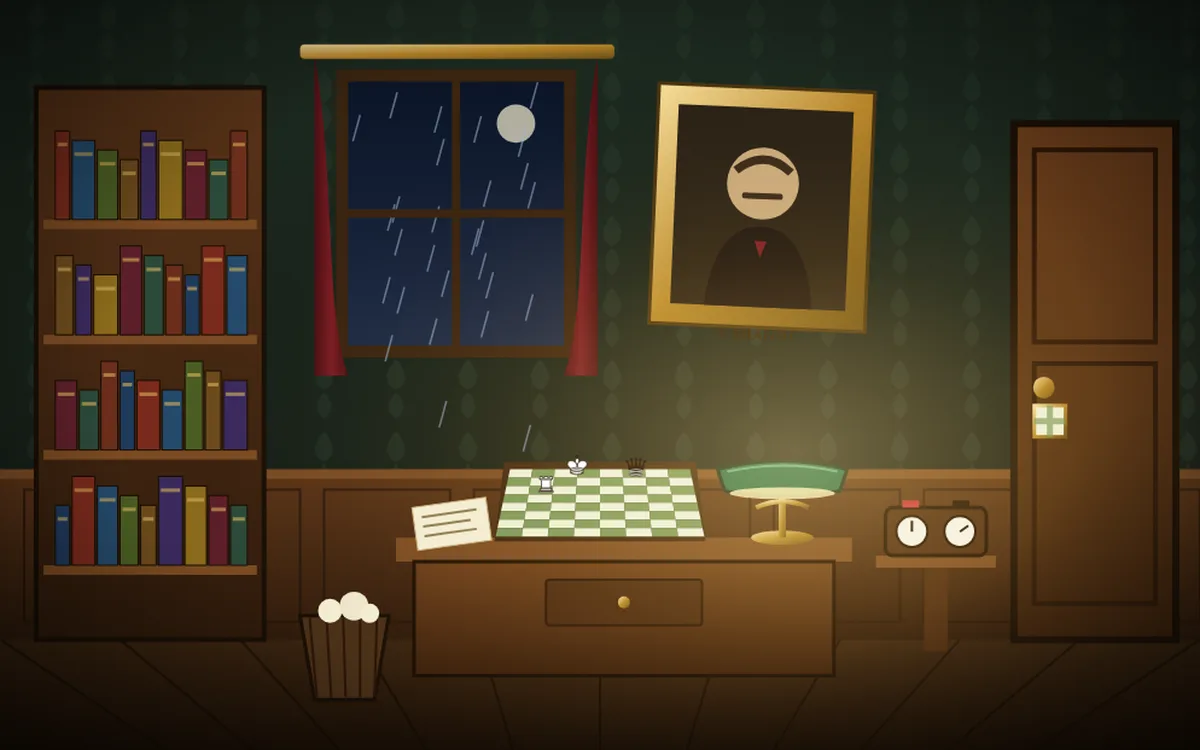
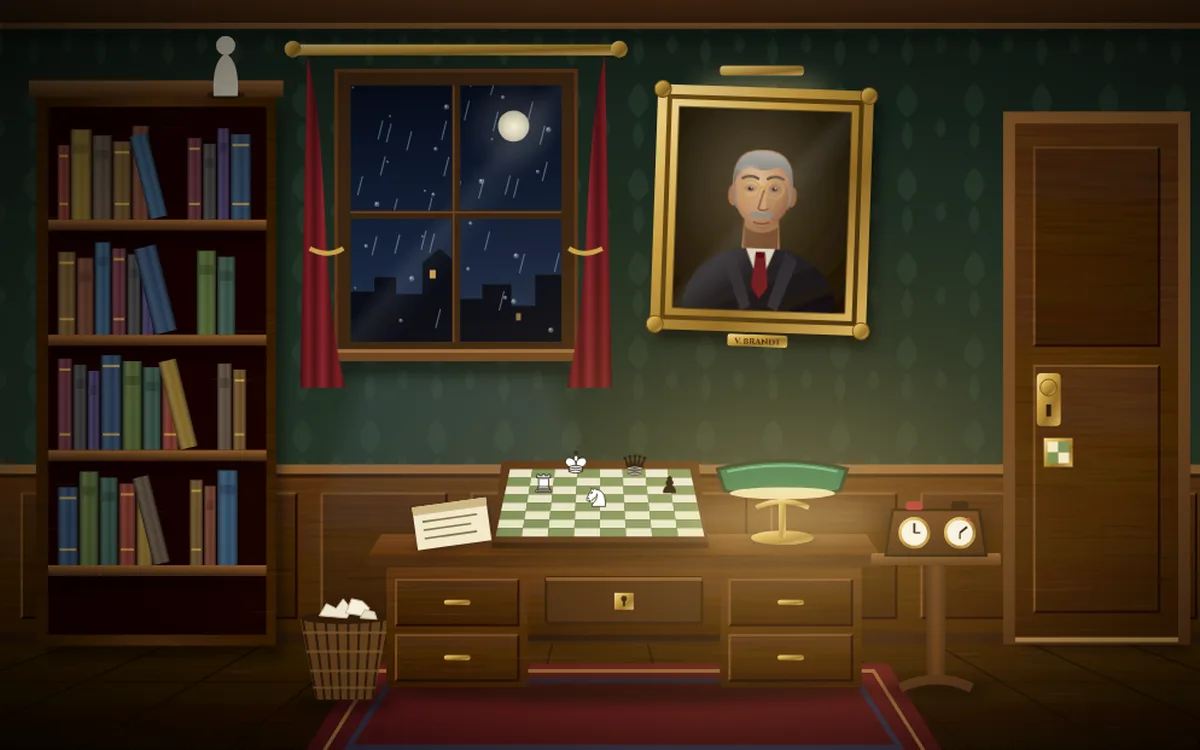
Zimmer des Großmeisters: realistischere Szene, Porträt, Regen nur am Fenster
Claude-Session: https://claude.ai/code/session_01Wbe3xKVTDkz4b75dQwucE3

diff --git a/site/schach/escape-room-zimmer/index.html b/site/schach/escape-room-zimmer/index.html
@@ -259,86 +259,180 @@ function narrate(lines,done){
 /* ---------- Szene ---------- */
 function sceneSVG(st){
   const f=st?st.flags:{};
-  const books=["#7a2a1c","#244a6b","#4a5d23","#6b4a1c","#3a2a5c","#8a6a1c","#5c1f2a","#2c4a3a","#6b2e1c","#1f3a5c"];
-  let shelf=""; for(let r=0;r<4;r++){ let x=46; for(let k=0;k<11;k++){ const w=12+((k*7+r*3)%9), h=74-((k*5+r)%4)*8; shelf+=`<rect x="${x}" y="${190+r*96-h}" width="${w}" height="${h}" fill="${books[(k+r*3)%books.length]}" stroke="#1a0f05" stroke-width="1"/><rect x="${x+2}" y="${190+r*96-h+10}" width="${w-4}" height="3" fill="#d9b25a" opacity=".6"/>`; x+=w+2; if(x>200) break; } }
-  let rain=""; for(let k=0;k<28;k++){ const x=300+((k*37)%150), y=((k*53)%170)+90; rain+=`<line x1="${x}" y1="${y}" x2="${x-6}" y2="${y+22}" stroke="#9fb7d6" stroke-width="1.5" opacity=".55"><animate attributeName="y1" values="${y-60};${y+120}" dur="${.7+(k%5)*.12}s" repeatCount="indefinite"/><animate attributeName="y2" values="${y-38};${y+142}" dur="${.7+(k%5)*.12}s" repeatCount="indefinite"/></line>`; }
-  let board=""; // Brett in leichter Perspektive
-  for(let r=0;r<8;r++) for(let c=0;c<8;c++){ const y0=398+r*7, y1=y0+7, w0=150+r*3, w1=150+(r+1)*3, xl0=500-w0/2, xl1=500-w1/2;
-    const ax=xl0+c*w0/8, bx=xl0+(c+1)*w0/8, cx=xl1+(c+1)*w1/8, dx=xl1+c*w1/8; board+=`<polygon points="${ax},${y0} ${bx},${y0} ${cx},${y1} ${dx},${y1}" fill="${(r+c)%2?"#769656":"#eeeed2"}"/>`; }
+  /* Bücher: unterschiedliche Höhen, Breiten, Farben, ein schräg stehendes Buch pro Brett */
+  const BC=["#6e2418","#1f3f5c","#3f5220","#5e3f17","#33264f","#7a5c18","#4f1b25","#264236","#5c2a18","#1b3350","#4a3a2a","#2f2f2f"];
+  let shelf=""; for(let r=0;r<4;r++){ let x=48; const base=190+r*96; let k=0;
+    while(x<196){ const w=10+((k*7+r*5)%8), h=62+((k*13+r*7)%18), c=BC[(k*5+r*3)%BC.length];
+      if(k===5+r%3){ shelf+=`<g transform="rotate(-14 ${x} ${base})"><rect x="${x}" y="${base-h+2}" width="${w+2}" height="${h-2}" fill="${c}"/><rect x="${x}" y="${base-h+2}" width="${w+2}" height="${h-2}" fill="url(#spine)"/></g>`; x+=w+18; k++; continue; }
+      shelf+=`<rect x="${x}" y="${base-h}" width="${w}" height="${h}" fill="${c}"/><rect x="${x}" y="${base-h}" width="${w}" height="${h}" fill="url(#spine)"/>`+
+        (k%3===0?`<rect x="${x+1.5}" y="${base-h+8}" width="${w-3}" height="2" fill="#c9a24a" opacity=".75"/><rect x="${x+1.5}" y="${base-14}" width="${w-3}" height="2" fill="#c9a24a" opacity=".75"/>`:`<rect x="${x+2}" y="${base-h+12}" width="${w-4}" height="8" fill="#000" opacity=".18"/>`);
+      x+=w+1; k++; }
+    shelf+=`<rect x="40" y="${base}" width="182" height="9" fill="url(#shelfb)"/><rect x="40" y="${base+9}" width="182" height="10" fill="#000" opacity=".35" filter="url(#soft)"/>`; }
+  /* Regen nur hinter der Scheibe */
+  let rain=""; for(let k=0;k<40;k++){ const x=292+((k*41)%176), y=((k*59)%200)+60, d=(.55+(k%6)*.09).toFixed(2);
+    rain+=`<line x1="${x}" y1="${y}" x2="${x-4}" y2="${y+16}" stroke="#a9c1e0" stroke-width="1.1" opacity=".45"><animate attributeName="y1" values="${y-140};${y+120}" dur="${d}s" repeatCount="indefinite"/><animate attributeName="y2" values="${y-124};${y+136}" dur="${d}s" repeatCount="indefinite"/></line>`; }
+  let drops=""; for(let k=0;k<26;k++){ const x=294+((k*67)%172), y=80+((k*89)%205), r=1+(k%3)*.6; drops+=`<circle cx="${x}" cy="${y}" r="${r}" fill="#cfe0f5" opacity=".35"/><circle cx="${x-.4}" cy="${y-.5}" r="${r*.35}" fill="#fff" opacity=".6"/>`; }
+  /* Brett in Perspektive */
+  let board=""; for(let r=0;r<8;r++) for(let c=0;c<8;c++){ const y0=398+r*7, y1=y0+7, w0=150+r*3, w1=150+(r+1)*3, xl0=500-w0/2, xl1=500-w1/2;
+    const ax=xl0+c*w0/8, bx=xl0+(c+1)*w0/8, cx=xl1+(c+1)*w1/8, dx=xl1+c*w1/8; board+=`<polygon points="${ax},${y0} ${bx},${y0} ${cx},${y1} ${dx},${y1}" fill="${(r+c)%2?"#6f8c52":"#e6e2c6"}"/>`; }
+  const panel=(x,y,w,h)=>`<rect x="${x}" y="${y}" width="${w}" height="${h}" fill="url(#panelf)"/><path d="M${x} ${y+h} V${y} H${x+w}" stroke="#8a5a2c" stroke-width="2" fill="none" opacity=".7"/><path d="M${x+w} ${y} V${y+h} H${x}" stroke="#140a03" stroke-width="2" fill="none" opacity=".8"/>`;
   return `
   <defs>
-    <linearGradient id="wall" x1="0" y1="0" x2="0" y2="1"><stop offset="0" stop-color="#1d2a20"/><stop offset="1" stop-color="#121a14"/></linearGradient>
-    <pattern id="damask" width="60" height="60" patternUnits="userSpaceOnUse"><path d="M30 6 C40 18 40 26 30 32 C20 26 20 18 30 6 Z M30 34 C38 42 38 50 30 56 C22 50 22 42 30 34Z" fill="#26362a" opacity=".55"/></pattern>
-    <linearGradient id="wood" x1="0" y1="0" x2="0" y2="1"><stop offset="0" stop-color="#5a3418"/><stop offset="1" stop-color="#2e1a0b"/></linearGradient>
-    <linearGradient id="floor" x1="0" y1="0" x2="0" y2="1"><stop offset="0" stop-color="#3a2410"/><stop offset="1" stop-color="#1a0f06"/></linearGradient>
-    <linearGradient id="desk" x1="0" y1="0" x2="0" y2="1"><stop offset="0" stop-color="#6b3d1a"/><stop offset="1" stop-color="#3a200c"/></linearGradient>
-    <linearGradient id="goldf" x1="0" y1="0" x2="1" y2="1"><stop offset="0" stop-color="#f6dd9a"/><stop offset=".5" stop-color="#b8862a"/><stop offset="1" stop-color="#6a4d14"/></linearGradient>
-    <linearGradient id="night" x1="0" y1="0" x2="0" y2="1"><stop offset="0" stop-color="#0b1426"/><stop offset="1" stop-color="#1c2a44"/></linearGradient>
-    <radialGradient id="lamp" cx="0.66" cy="0.6" r="0.5"><stop offset="0" stop-color="#ffd27a" stop-opacity=".42"/><stop offset=".5" stop-color="#ffb347" stop-opacity=".12"/><stop offset="1" stop-color="#000" stop-opacity="0"/></radialGradient>
-    <radialGradient id="vig" cx=".5" cy=".5" r=".75"><stop offset=".55" stop-color="#000" stop-opacity="0"/><stop offset="1" stop-color="#000" stop-opacity=".75"/></radialGradient>
-    <linearGradient id="velvet" x1="0" y1="0" x2="1" y2="0"><stop offset="0" stop-color="#4a0f14"/><stop offset=".5" stop-color="#7a1c22"/><stop offset="1" stop-color="#4a0f14"/></linearGradient>
-    <linearGradient id="steel" x1="0" y1="0" x2="1" y2="1"><stop offset="0" stop-color="#8a929e"/><stop offset="1" stop-color="#2b3038"/></linearGradient>
+    <filter id="grain" x="0" y="0" width="100%" height="100%"><feTurbulence type="fractalNoise" baseFrequency="0.012 0.32" numOctaves="2" seed="4" result="n"/><feColorMatrix in="n" result="a" values="0 0 0 0 0  0 0 0 0 0  0 0 0 0 0  0 0 0 .55 -.12"/><feComposite in="a" in2="SourceGraphic" operator="in" result="b"/><feMerge><feMergeNode in="SourceGraphic"/><feMergeNode in="b"/></feMerge></filter>
+    <filter id="canvas" x="0" y="0" width="100%" height="100%"><feTurbulence type="fractalNoise" baseFrequency=".9" numOctaves="1" seed="7" result="n"/><feColorMatrix in="n" result="a" values="0 0 0 0 0  0 0 0 0 0  0 0 0 0 0  0 0 0 .22 0"/><feComposite in="a" in2="SourceGraphic" operator="in" result="b"/><feMerge><feMergeNode in="SourceGraphic"/><feMergeNode in="b"/></feMerge></filter>
+    <filter id="soft" x="-20%" y="-50%" width="140%" height="200%"><feGaussianBlur stdDeviation="5"/></filter>
+    <filter id="glow" x="-50%" y="-50%" width="200%" height="200%"><feGaussianBlur stdDeviation="9"/></filter>
+    <clipPath id="winclip"><rect x="292" y="78" width="176" height="214"/></clipPath>
+    <linearGradient id="wall" x1="0" y1="0" x2="0" y2="1"><stop offset="0" stop-color="#16231a"/><stop offset=".6" stop-color="#1f3024"/><stop offset="1" stop-color="#16221a"/></linearGradient>
+    <pattern id="damask" width="56" height="70" patternUnits="userSpaceOnUse"><path d="M28 6 C38 16 40 26 28 35 C16 26 18 16 28 6 Z M28 38 C34 46 34 54 28 62 C22 54 22 46 28 38Z M0 35 C6 41 6 47 0 52 M56 35 C50 41 50 47 56 52" fill="#2b3f2f" opacity=".5"/></pattern>
+    <linearGradient id="panelf" x1="0" y1="0" x2="0" y2="1"><stop offset="0" stop-color="#4f2d14"/><stop offset="1" stop-color="#341c0b"/></linearGradient>
+    <linearGradient id="wood" x1="0" y1="0" x2="0" y2="1"><stop offset="0" stop-color="#5c3517"/><stop offset="1" stop-color="#3a200c"/></linearGradient>
+    <linearGradient id="woodv" x1="0" y1="0" x2="1" y2="0"><stop offset="0" stop-color="#3a200c"/><stop offset=".5" stop-color="#5c3517"/><stop offset="1" stop-color="#3a200c"/></linearGradient>
+    <linearGradient id="shelfb" x1="0" y1="0" x2="0" y2="1"><stop offset="0" stop-color="#8a5a2c"/><stop offset="1" stop-color="#4a2a12"/></linearGradient>
+    <linearGradient id="spine" x1="0" y1="0" x2="1" y2="0"><stop offset="0" stop-color="#000" stop-opacity=".45"/><stop offset=".35" stop-color="#fff" stop-opacity=".12"/><stop offset=".6" stop-color="#fff" stop-opacity=".04"/><stop offset="1" stop-color="#000" stop-opacity=".5"/></linearGradient>
+    <linearGradient id="floor" x1="0" y1="0" x2="0" y2="1"><stop offset="0" stop-color="#3b2410"/><stop offset="1" stop-color="#1c1006"/></linearGradient>
+    <linearGradient id="desktop" x1="0" y1="0" x2="0" y2="1"><stop offset="0" stop-color="#7a4620"/><stop offset="1" stop-color="#5a3216"/></linearGradient>
+    <linearGradient id="desk" x1="0" y1="0" x2="0" y2="1"><stop offset="0" stop-color="#5e3517"/><stop offset="1" stop-color="#341c0a"/></linearGradient>
+    <linearGradient id="goldf" x1="0" y1="0" x2="1" y2="1"><stop offset="0" stop-color="#f3d991"/><stop offset=".35" stop-color="#c79b3e"/><stop offset=".65" stop-color="#8c6522"/><stop offset="1" stop-color="#d8b05a"/></linearGradient>
+    <linearGradient id="goldd" x1="0" y1="0" x2="1" y2="1"><stop offset="0" stop-color="#6a4a14"/><stop offset="1" stop-color="#3a2808"/></linearGradient>
+    <linearGradient id="night" x1="0" y1="0" x2="0" y2="1"><stop offset="0" stop-color="#070d1c"/><stop offset=".7" stop-color="#16243d"/><stop offset="1" stop-color="#22324e"/></linearGradient>
+    <linearGradient id="glass" x1="0" y1="0" x2="1" y2="1"><stop offset="0" stop-color="#fff" stop-opacity="0"/><stop offset=".45" stop-color="#fff" stop-opacity="0"/><stop offset=".5" stop-color="#fff" stop-opacity=".07"/><stop offset=".6" stop-color="#fff" stop-opacity="0"/></linearGradient>
+    <radialGradient id="moon" cx=".5" cy=".5" r=".5"><stop offset="0" stop-color="#f4efd8"/><stop offset=".6" stop-color="#d9d3b8"/><stop offset="1" stop-color="#b9b39a"/></radialGradient>
+    <radialGradient id="lamp" cx="0.65" cy="0.68" r="0.55"><stop offset="0" stop-color="#ffcf7a" stop-opacity=".38"/><stop offset=".45" stop-color="#ffaa45" stop-opacity=".1"/><stop offset="1" stop-color="#000" stop-opacity="0"/></radialGradient>
+    <radialGradient id="vig" cx=".55" cy=".55" r=".78"><stop offset=".5" stop-color="#000" stop-opacity="0"/><stop offset="1" stop-color="#000" stop-opacity=".78"/></radialGradient>
+    <linearGradient id="velvet" x1="0" y1="0" x2="1" y2="0"><stop offset="0" stop-color="#3d0b10"/><stop offset=".18" stop-color="#7a1c22"/><stop offset=".32" stop-color="#4a0f14"/><stop offset=".5" stop-color="#86222a"/><stop offset=".68" stop-color="#4a0f14"/><stop offset=".85" stop-color="#7a1c22"/><stop offset="1" stop-color="#3d0b10"/></linearGradient>
+    <linearGradient id="steel" x1="0" y1="0" x2="1" y2="1"><stop offset="0" stop-color="#8a929e"/><stop offset=".5" stop-color="#4b525c"/><stop offset="1" stop-color="#22262c"/></linearGradient>
+    <radialGradient id="cbg" cx=".45" cy=".35" r=".8"><stop offset="0" stop-color="#5e5038"/><stop offset=".55" stop-color="#2e2618"/><stop offset="1" stop-color="#14100a"/></radialGradient>
+    <radialGradient id="skin" cx=".42" cy=".38" r=".7"><stop offset="0" stop-color="#e9c39a"/><stop offset=".6" stop-color="#c8936a"/><stop offset="1" stop-color="#8a5a3a"/></radialGradient>
+    <linearGradient id="suit" x1="0" y1="0" x2="1" y2="1"><stop offset="0" stop-color="#3a3a42"/><stop offset=".5" stop-color="#1c1c22"/><stop offset="1" stop-color="#0c0c10"/></linearGradient>
+    <linearGradient id="hair" x1="0" y1="0" x2="0" y2="1"><stop offset="0" stop-color="#b8b6ae"/><stop offset="1" stop-color="#6e6c66"/></linearGradient>
+    <radialGradient id="plight" cx=".5" cy="0" r=".9"><stop offset="0" stop-color="#ffe2a0" stop-opacity=".35"/><stop offset="1" stop-color="#ffe2a0" stop-opacity="0"/></radialGradient>
+    <linearGradient id="rug" x1="0" y1="0" x2="0" y2="1"><stop offset="0" stop-color="#5a1518"/><stop offset="1" stop-color="#3a0c0e"/></linearGradient>
+    <linearGradient id="spill" x1="0" y1="0" x2="0" y2="1"><stop offset="0" stop-color="#8fb0de" stop-opacity=".12"/><stop offset="1" stop-color="#8fb0de" stop-opacity="0"/></linearGradient>
   </defs>
-  <rect width="1000" height="640" fill="url(#wall)"/><rect width="1000" height="420" fill="url(#damask)"/>
-  <rect y="400" width="1000" height="140" fill="url(#wood)"/><g stroke="#24140a" stroke-width="2">${[0,1,2,3,4,5,6,7].map(k=>`<rect x="${20+k*125}" y="415" width="105" height="110" fill="none" opacity=".7"/>`).join("")}</g>
-  <rect y="398" width="1000" height="8" fill="#7a4a22"/>
-  <rect y="540" width="1000" height="100" fill="url(#floor)"/><g stroke="#120a04" stroke-width="2" opacity=".6">${[0,1,2,3,4,5,6,7,8,9,10].map(k=>`<line x1="${k*100}" y1="540" x2="${k*100-((k-5)*30)}" y2="640"/>`).join("")}</g>
+  <!-- Wand -->
+  <rect width="1000" height="640" fill="url(#wall)"/><rect width="1000" height="400" fill="url(#damask)"/>
+  <rect y="0" width="1000" height="26" fill="url(#wood)"/><rect y="26" width="1000" height="5" fill="#8a5a2c"/><rect y="31" width="1000" height="10" fill="#000" opacity=".3" filter="url(#soft)"/>
+  <!-- Wandvertäfelung -->
+  <g filter="url(#grain)"><rect y="398" width="1000" height="146" fill="url(#wood)"/>${[0,1,2,3,4,5,6,7].map(k=>panel(18+k*125,418,104,104)).join("")}</g>
+  <rect y="394" width="1000" height="8" fill="#8a5a2c"/><rect y="402" width="1000" height="3" fill="#2a1608"/>
+  <rect y="534" width="1000" height="10" fill="#2a1608"/>
+  <!-- Boden -->
+  <g filter="url(#grain)"><rect y="544" width="1000" height="96" fill="url(#floor)"/></g>
+  <g stroke="#0e0703" stroke-width="1.5" opacity=".7">${Array.from({length:14},(_,k)=>`<line x1="${k*80-20}" y1="544" x2="${(k*80-20-500)*1.6+500}" y2="640"/>`).join("")}<line x1="0" y1="575" x2="1000" y2="575" opacity=".5"/><line x1="0" y1="610" x2="1000" y2="610" opacity=".5"/></g>
+  <polygon points="300,560 740,560 790,640 250,640" fill="url(#rug)"/><polygon points="312,566 728,566 772,636 268,636" fill="none" stroke="#c9a24a" stroke-width="3" opacity=".55"/><polygon points="326,574 714,574 750,630 290,630" fill="none" stroke="#1f3a5c" stroke-width="5" opacity=".6"/>
   <!-- Fenster -->
-  <rect x="285" y="70" width="190" height="230" fill="url(#night)" stroke="#3a2410" stroke-width="10"/>
-  <circle cx="430" cy="110" r="16" fill="#e8e2c8" opacity=".75"/><g>${rain}</g>
-  <path d="M380 70 V300 M285 185 H475" stroke="#3a2410" stroke-width="7"/>
-  <path d="M262 52 C280 160 270 260 290 320 L262 320 Z" fill="url(#velvet)"/><path d="M498 52 C480 160 490 260 470 320 L498 320 Z" fill="url(#velvet)"/><rect x="250" y="44" width="262" height="12" rx="4" fill="url(#goldf)"/>
+  <rect x="262" y="306" width="236" height="14" fill="#000" opacity=".35" filter="url(#soft)"/>
+  <g clip-path="url(#winclip)">
+    <rect x="292" y="78" width="176" height="214" fill="url(#night)"/>
+    <circle cx="428" cy="112" r="30" fill="#e8e2c8" opacity=".12" filter="url(#glow)"/><circle cx="428" cy="112" r="13" fill="url(#moon)"/>
+    <path d="M292 292 V250 H312 V238 H330 V252 H352 V226 L366 214 L380 226 V256 H402 V244 H426 V262 H446 V236 H468 V292 Z" fill="#060a14"/>
+    <rect x="358" y="232" width="5" height="7" fill="#e8b85a" opacity=".85"/><rect x="430" y="268" width="4" height="6" fill="#e8b85a" opacity=".6"/>
+    ${rain}${drops}
+    <rect x="292" y="78" width="176" height="214" fill="url(#glass)"/>
+  </g>
+  <rect x="286" y="72" width="188" height="226" fill="none" stroke="#3a2410" stroke-width="12"/>
+  <rect x="280" y="66" width="200" height="238" fill="none" stroke="#5c3517" stroke-width="3"/>
+  <path d="M380 78 V292 M292 186 H468" stroke="#3a2410" stroke-width="7"/><path d="M378 78 V292 M292 184 H468" stroke="#6a4220" stroke-width="1.5"/>
+  <rect x="270" y="298" width="220" height="10" fill="#6a4220"/><rect x="270" y="298" width="220" height="3" fill="#9a6a38"/>
+  <polygon points="300,320 460,320 520,544 240,544" fill="url(#spill)" filter="url(#glow)"/>
+  <path d="M256 52 C276 140 266 250 288 330 L250 330 Z" fill="url(#velvet)"/><path d="M504 52 C484 140 494 250 472 330 L510 330 Z" fill="url(#velvet)"/>
+  <path d="M258 214 Q274 222 286 214" stroke="#c9a24a" stroke-width="4" fill="none"/><path d="M474 214 Q486 222 502 214" stroke="#c9a24a" stroke-width="4" fill="none"/>
+  <rect x="244" y="44" width="272" height="9" rx="4" fill="url(#goldf)"/><circle cx="244" cy="48" r="7" fill="url(#goldf)"/><circle cx="516" cy="48" r="7" fill="url(#goldf)"/>
   <!-- Regal -->
-  <rect x="30" y="80" width="190" height="460" fill="url(#wood)" stroke="#1a0f05" stroke-width="4"/>
-  ${[0,1,2,3].map(r=>`<rect x="36" y="${190+r*96}" width="178" height="8" fill="#7a4a22"/>`).join("")}${shelf}
+  <rect x="34" y="92" width="196" height="458" fill="#000" opacity=".45" filter="url(#soft)" transform="translate(6 6)"/>
+  <g filter="url(#grain)"><rect x="30" y="80" width="200" height="465" fill="url(#woodv)"/><rect x="40" y="96" width="182" height="440" fill="#1e1006"/></g>
+  <rect x="24" y="74" width="212" height="14" fill="url(#shelfb)"/>
+  ${shelf}
+  <g transform="translate(170 87)"><ellipse cx="18" cy="-1" rx="16" ry="4" fill="#000" opacity=".4"/><path d="M8 0 Q6 -28 18 -36 Q30 -28 28 0 Z" fill="#cfc8b4"/><circle cx="18" cy="-42" r="8" fill="#d9d2be"/></g>
   <!-- Gemälde oder Tresor -->
-  ${f.painting?`<rect x="560" y="95" width="150" height="170" fill="#151a1f" stroke="#0a0c0f" stroke-width="4"/>
-     <rect x="572" y="107" width="126" height="146" rx="6" fill="url(#steel)" stroke="#1f2329" stroke-width="3"/>
-     <circle cx="635" cy="175" r="30" fill="#2b3038" stroke="#9aa3ae" stroke-width="4"/><circle cx="635" cy="175" r="7" fill="#9aa3ae"/>
-     ${f.safe?`<rect x="572" y="107" width="126" height="146" rx="6" fill="#0a0c0f" opacity=".85"/><text x="635" y="185" text-anchor="middle" fill="#d9b25a" font-family="Cinzel" font-size="16">offen</text>`:""}
-     <rect x="520" y="300" width="70" height="88" fill="#3a2410" opacity=".0"/>`
-   :`<rect x="545" y="80" width="180" height="200" fill="url(#goldf)" stroke="#4a3410" stroke-width="3" transform="rotate(2.5 635 180)"/>
-     <g transform="rotate(2.5 635 180)"><rect x="562" y="97" width="146" height="166" fill="#2a2216"/>
-     <circle cx="635" cy="160" r="30" fill="#c9a87a"/><path d="M590 263 C595 210 615 196 635 196 C655 196 675 210 680 263 Z" fill="#1a1410"/>
-     <path d="M612 150 Q635 130 658 150" stroke="#3a2a1a" stroke-width="7" fill="none"/><rect x="618" y="168" width="34" height="5" rx="2" fill="#3a2a1a"/>
-     <path d="M630 208 L635 222 L640 208 Z" fill="#7a1c22"/><text x="635" y="290" text-anchor="middle" font-family="Cinzel" font-size="12" fill="#2a1c05">V. BRANDT</text></g>`}
+  <rect x="600" y="62" width="70" height="8" rx="3" fill="url(#goldf)"/><path d="M585 70 L685 70 L740 300 L530 300 Z" fill="url(#plight)" filter="url(#glow)"/>
+  ${f.painting?`<rect x="548" y="84" width="176" height="200" fill="#1a2219"/><rect x="548" y="84" width="176" height="200" fill="none" stroke="#2b3f2f" stroke-width="2" stroke-dasharray="4 3"/>
+     <rect x="566" y="104" width="138" height="160" rx="6" fill="#000" opacity=".5" filter="url(#soft)"/>
+     <rect x="566" y="100" width="138" height="160" rx="6" fill="url(#steel)" stroke="#16191d" stroke-width="3"/><rect x="574" y="108" width="122" height="144" rx="4" fill="none" stroke="#9aa3ae" stroke-width="1" opacity=".5"/>
+     <circle cx="635" cy="180" r="32" fill="#2b3038" stroke="#aab2bc" stroke-width="4"/>${Array.from({length:12},(_,i)=>`<line x1="${635+26*Math.cos(i*Math.PI/6)}" y1="${180+26*Math.sin(i*Math.PI/6)}" x2="${635+31*Math.cos(i*Math.PI/6)}" y2="${180+31*Math.sin(i*Math.PI/6)}" stroke="#aab2bc" stroke-width="2"/>`).join("")}<circle cx="635" cy="180" r="8" fill="#aab2bc"/><rect x="676" y="170" width="16" height="22" rx="3" fill="#aab2bc"/>
+     ${f.safe?`<rect x="566" y="100" width="138" height="160" rx="6" fill="#07080a" opacity=".9"/><text x="635" y="186" text-anchor="middle" fill="#d9b25a" font-family="Cinzel" font-size="15">offen</text>`:""}`
+   :`<g transform="rotate(2 635 182)">
+     <rect x="551" y="90" width="180" height="204" fill="#000" opacity=".55" filter="url(#soft)"/>
+     <rect x="545" y="80" width="180" height="204" fill="url(#goldf)"/><rect x="553" y="88" width="164" height="188" fill="url(#goldd)"/><rect x="557" y="92" width="156" height="180" fill="url(#goldf)"/>
+     ${[[549,84],[721,84],[549,280],[721,280]].map(([x,y])=>`<circle cx="${x}" cy="${y}" r="7" fill="url(#goldf)" stroke="#6a4a14" stroke-width="1"/>`).join("")}
+     <g filter="url(#canvas)"><rect x="563" y="98" width="144" height="168" fill="url(#cbg)"/>
+      <path d="M570 266 C573 232 598 214 635 211 C672 214 697 232 700 266 Z" fill="url(#suit)"/>
+      <path d="M614 216 L628 262 L620 266 L604 224 Z M656 216 L642 262 L650 266 L666 224 Z" fill="#2c2c34"/>
+      <path d="M622 212 L635 244 L648 212 Z" fill="#e6dcc4"/><path d="M631 217 L639 217 L642 246 L635 256 L628 246 Z" fill="#6e1a20"/><path d="M631 217 L639 217 L637 222 L633 222 Z" fill="#4e1016"/>
+      <path d="M621 186 L649 186 L651 214 L619 214 Z" fill="#a8764e"/><path d="M621 196 Q635 206 649 196 V214 H621 Z" fill="#7a5034"/>
+      <ellipse cx="611" cy="170" rx="4.5" ry="9" fill="#b07a52"/><ellipse cx="659" cy="170" rx="4.5" ry="9" fill="#a06a44"/>
+      <path d="M610 160 C610 137 621 132 635 132 C649 132 660 137 660 160 C660 179 652 193 635 199 C618 193 610 179 610 160 Z" fill="url(#skin)"/>
+      <ellipse cx="648" cy="175" rx="10" ry="18" fill="#6a3e24" opacity=".22"/>
+      <path d="M611 163 C608 140 620 133 635 133 C651 133 662 141 659 163 C657 151 652 147 646 146 C640 150 630 150 624 146 C617 148 613 153 611 163 Z" fill="url(#hair)"/>
+      <path d="M611 163 C610 172 612 178 614 182 L612 160 Z M659 163 C660 172 658 178 656 182 L658 160 Z" fill="#8d8b84"/>
+      <path d="M618 156 Q625 152 631 156" stroke="#5a554c" stroke-width="2.2" fill="none" stroke-linecap="round"/><path d="M639 156 Q645 152 652 156" stroke="#5a554c" stroke-width="2.2" fill="none" stroke-linecap="round"/>
+      <ellipse cx="625" cy="164" rx="6" ry="3.5" fill="#8a5a3a" opacity=".35"/><ellipse cx="645" cy="164" rx="6" ry="3.5" fill="#8a5a3a" opacity=".35"/>
+      <ellipse cx="625" cy="164.5" rx="2.4" ry="1.8" fill="#2a1c10"/><ellipse cx="645" cy="164.5" rx="2.4" ry="1.8" fill="#2a1c10"/><circle cx="625.8" cy="163.8" r=".7" fill="#fff"/><circle cx="645.8" cy="163.8" r=".7" fill="#fff"/>
+      <circle cx="625" cy="165" r="7.5" fill="#fff" fill-opacity=".05" stroke="#c9a24a" stroke-width="1.2"/><circle cx="645" cy="165" r="7.5" fill="#fff" fill-opacity=".05" stroke="#c9a24a" stroke-width="1.2"/><path d="M632.5 164 Q635 162 637.5 164" stroke="#c9a24a" stroke-width="1.2" fill="none"/>
+      <path d="M636 166 L632 181 Q635 184 640 181" stroke="#8a5434" stroke-width="1.5" fill="none" stroke-linecap="round"/>
+      <path d="M624 186 Q630 182 635 185 Q640 182 646 186 Q640 190 635 188 Q630 190 624 186 Z" fill="#8d8b84"/><path d="M628 192 Q635 195 642 192" stroke="#7a4a32" stroke-width="1.3" fill="none"/>
+      <ellipse cx="623" cy="148" rx="9" ry="4" fill="#fff" opacity=".12"/>
+      
+      <rect x="563" y="98" width="144" height="168" fill="url(#glass)"/></g>
+     <rect x="610" y="286" width="50" height="10" rx="2" fill="url(#goldf)"/><text x="635" y="294" text-anchor="middle" font-family="Cinzel" font-size="7" font-weight="700" fill="#2a1c05">V. BRANDT</text></g>`}
   <!-- Tür -->
-  <rect x="845" y="110" width="135" height="430" fill="url(#desk)" stroke="#1a0f05" stroke-width="6"/>
-  <rect x="862" y="132" width="101" height="160" fill="none" stroke="#2a1608" stroke-width="4"/><rect x="862" y="310" width="101" height="200" fill="none" stroke="#2a1608" stroke-width="4"/>
-  <circle cx="870" cy="330" r="9" fill="url(#goldf)"/><rect x="862" y="345" width="26" height="26" fill="#eeeed2" stroke="url(#goldf)" stroke-width="3"/><path d="M862 358 H888 M875 345 V371" stroke="#769656" stroke-width="5" opacity=".7"/>
-  ${f.door?`<rect x="845" y="110" width="135" height="430" fill="#ffd27a" opacity=".55"/>`:""}
+  <rect x="852" y="118" width="135" height="430" fill="#000" opacity=".5" filter="url(#soft)"/>
+  <rect x="836" y="100" width="156" height="444" fill="url(#shelfb)"/>
+  <g filter="url(#grain)"><rect x="846" y="110" width="136" height="432" fill="url(#desk)"/>${panel(862,130,104,165)}${panel(862,312,104,205)}</g>
+  <rect x="846" y="538" width="136" height="4" fill="#ffcf7a" opacity=".55"/>
+  <rect x="864" y="318" width="20" height="44" rx="4" fill="url(#goldf)"/><circle cx="874" cy="330" r="7" fill="url(#goldf)" stroke="#6a4a14"/><path d="M872 344 h4 v10 h-4 z" fill="#1a0f05"/>
+  <g transform="translate(870 372)"><rect width="24" height="24" fill="url(#goldf)"/><rect x="3" y="3" width="9" height="9" fill="#efe6c8"/><rect x="12" y="3" width="9" height="9" fill="#6f8c52"/><rect x="3" y="12" width="9" height="9" fill="#6f8c52"/><rect x="12" y="12" width="9" height="9" fill="#efe6c8"/></g>
+  ${f.door?`<rect x="846" y="110" width="136" height="432" fill="#ffd27a" opacity=".55"/>`:""}
   <!-- Papierkorb -->
-  <path d="M250 520 L262 590 L312 590 L324 520 Z" fill="#4a3018" stroke="#1a0f05" stroke-width="3"/><g stroke="#2a1608" stroke-width="2">${[0,1,2,3,4].map(k=>`<line x1="${258+k*14}" y1="522" x2="${264+k*12}" y2="588"/>`).join("")}</g>
-  <circle cx="275" cy="516" r="10" fill="#f4ecd2"/><circle cx="295" cy="512" r="12" fill="#efe5cc"/><circle cx="308" cy="518" r="8" fill="#f4ecd2"/>
+  <ellipse cx="287" cy="592" rx="44" ry="8" fill="#000" opacity=".5" filter="url(#soft)"/>
+  <path d="M250 522 L263 590 L311 590 L324 522 Z" fill="#5a3a1a"/>${Array.from({length:8},(_,k)=>`<path d="M${252+k*9.5} 522 L${264+k*6.6} 590" stroke="#2a1608" stroke-width="2"/>`).join("")}${[534,550,566,580].map(y=>`<path d="M${250+(y-522)*.19} ${y} H${324-(y-522)*.19}" stroke="#7a5228" stroke-width="2" opacity=".8"/>`).join("")}
+  <ellipse cx="287" cy="522" rx="37" ry="5" fill="#2a1608"/>
+  <path d="M266 520 l6 -10 l8 4 l6 -8 l7 9 l-4 7 z" fill="#efe7d0" stroke="#bdb293"/><path d="M288 518 l5 -12 l9 2 l6 6 l-6 6 z" fill="#f6efdc" stroke="#bdb293"/><path d="M300 522 l4 -7 l8 2 l2 6 z" fill="#e6dcc0" stroke="#bdb293"/>
   <!-- Schreibtisch -->
-  <rect x="330" y="455" width="380" height="20" fill="#7a4a22"/><rect x="345" y="475" width="350" height="95" fill="url(#desk)" stroke="#1a0f05" stroke-width="3"/>
-  <rect x="455" y="490" width="130" height="38" rx="3" fill="#4a2a12" stroke="#2a1608" stroke-width="2"/><circle cx="520" cy="509" r="5" fill="url(#goldf)"/>${f.drawer?`<rect x="455" y="528" width="130" height="14" fill="#2a1608"/>`:""}
+  <ellipse cx="520" cy="582" rx="210" ry="12" fill="#000" opacity=".55" filter="url(#soft)"/>
+  <g filter="url(#grain)">
+   <polygon points="318,452 722,452 734,470 306,470" fill="url(#desktop)"/><rect x="306" y="470" width="428" height="10" fill="#4a2a12"/>
+   <rect x="322" y="480" width="118" height="100" fill="url(#desk)"/><rect x="600" y="480" width="118" height="100" fill="url(#desk)"/><rect x="440" y="480" width="160" height="56" fill="url(#desk)"/>
+   ${panel(330,490,102,38)}${panel(330,536,102,38)}${panel(608,490,102,38)}${panel(608,536,102,38)}
+  </g>
+  <rect x="455" y="488" width="130" height="38" rx="2" fill="#3a200c" stroke="#1a0f05" stroke-width="2"/><rect x="455" y="488" width="130" height="3" fill="#7a4a22"/>
+  ${[[381,509],[381,555],[659,509],[659,555]].map(([x,y])=>`<rect x="${x-11}" y="${y-2}" width="22" height="4" rx="2" fill="url(#goldf)"/>`).join("")}
+  <path d="M512 501 h16 v14 h-16 z" fill="url(#goldf)"/><circle cx="520" cy="506" r="2.5" fill="#1a0f05"/><path d="M519 507 h2 v5 h-2 z" fill="#1a0f05"/>
+  ${f.drawer?`<rect x="451" y="524" width="138" height="16" fill="#2a1608"/><rect x="455" y="524" width="130" height="3" fill="#7a4a22"/><path d="M470 528 h40 l-3 8 h-34 z" fill="#efe7d0"/>`:""}
+  <rect x="440" y="536" width="160" height="5" fill="#000" opacity=".4"/>
   <!-- Brett -->
-  <polygon points="420,392 580,392 588,458 412,458" fill="#3a2410"/>${board}
-  <g transform="translate(470 383) scale(.11)"><image href="${PIECES.wK}" width="200" height="200"/></g><g transform="translate(520 386) scale(.1)"><image href="${PIECES.bQ}" width="200" height="200"/></g><g transform="translate(445 400) scale(.1)"><image href="${PIECES.wR}" width="200" height="200"/></g>
+  <ellipse cx="500" cy="462" rx="96" ry="6" fill="#000" opacity=".5" filter="url(#soft)"/>
+  <polygon points="418,391 582,391 590,459 410,459" fill="#4a2a12"/><polygon points="410,459 590,459 590,464 410,464" fill="#2a1608"/>${board}
+  <g transform="translate(468 380) scale(.12)"><image href="${PIECES.wK}" width="200" height="200"/></g><g transform="translate(518 383) scale(.11)"><image href="${PIECES.bQ}" width="200" height="200"/></g><g transform="translate(442 398) scale(.11)"><image href="${PIECES.wR}" width="200" height="200"/></g><g transform="translate(548 400) scale(.1)"><image href="${PIECES.bP}" width="200" height="200"/></g><g transform="translate(486 410) scale(.11)"><image href="${PIECES.wN}" width="200" height="200"/></g>
   <!-- Telegramm -->
-  <g transform="rotate(-8 380 440)"><rect x="345" y="425" width="62" height="36" fill="#f4ecd2" stroke="#c8b380"/><path d="M352 434 H398 M352 442 H392 M352 450 H396" stroke="#8a7a50" stroke-width="2"/></g>
+  <g transform="rotate(-8 380 440)"><rect x="347" y="429" width="62" height="36" fill="#000" opacity=".35" filter="url(#soft)"/><rect x="345" y="425" width="62" height="36" fill="#f1e7c9"/><rect x="345" y="425" width="62" height="7" fill="#c8b380"/><path d="M352 438 H398 M352 445 H392 M352 452 H396" stroke="#7a6a44" stroke-width="1.6"/></g>
   <!-- Lampe -->
+  <ellipse cx="652" cy="457" rx="30" ry="5" fill="#000" opacity=".5" filter="url(#soft)"/>
   <ellipse cx="652" cy="455" rx="26" ry="6" fill="url(#goldf)"/><rect x="649" y="412" width="6" height="43" fill="url(#goldf)"/><path d="M630 430 Q652 420 674 430" stroke="url(#goldf)" stroke-width="4" fill="none"/>
   <path d="M598 398 Q652 384 706 398 L700 416 Q652 426 604 416 Z" fill="#1f6a42" stroke="#0f2a1c" stroke-width="3"/><path d="M606 400 Q652 390 698 400" stroke="#7fd4a0" stroke-width="2" fill="none" opacity=".6"/>
-  <ellipse cx="652" cy="418" rx="44" ry="5" fill="#ffe7a8" opacity=".85"/>
+  <ellipse cx="652" cy="418" rx="44" ry="5" fill="#ffe7a8" opacity=".9"/><ellipse cx="652" cy="440" rx="80" ry="20" fill="#ffd27a" opacity=".22" filter="url(#glow)"/>
   <!-- Schachuhr auf Beistelltisch -->
-  <rect x="730" y="470" width="100" height="10" fill="#7a4a22"/><rect x="770" y="480" width="20" height="70" fill="#4a2a12"/>
-  <rect x="738" y="430" width="84" height="40" rx="6" fill="#4a2a12" stroke="#1a0f05" stroke-width="3"/><circle cx="760" cy="450" r="13" fill="#f6efdc" stroke="#1a0f05" stroke-width="2"/><circle cx="800" cy="450" r="13" fill="#f6efdc" stroke="#1a0f05" stroke-width="2"/>
-  <path d="M760 450 L760 441 M800 450 L807 445" stroke="#1a0f05" stroke-width="2"/><rect x="752" y="424" width="14" height="6" fill="#c8333a"/><rect x="794" y="424" width="14" height="6" fill="#1a0f05"/>
+  <ellipse cx="780" cy="582" rx="46" ry="7" fill="#000" opacity=".5" filter="url(#soft)"/>
+  <rect x="726" y="468" width="108" height="10" rx="2" fill="url(#shelfb)"/><rect x="772" y="478" width="16" height="96" fill="url(#woodv)"/><path d="M750 580 Q780 566 810 580" stroke="#4a2a12" stroke-width="8" fill="none"/>
+  <rect x="740" y="436" width="84" height="34" rx="5" fill="#000" opacity=".4" filter="url(#soft)"/>
+  <path d="M738 470 L744 432 L816 432 L822 470 Z" fill="url(#desk)" stroke="#1a0f05" stroke-width="2"/>
+  <circle cx="762" cy="451" r="12" fill="#f6efdc" stroke="url(#goldf)" stroke-width="2.5"/><circle cx="800" cy="451" r="12" fill="#f6efdc" stroke="url(#goldf)" stroke-width="2.5"/>
+  <path d="M762 451 L762 443 M800 451 L806 446" stroke="#1a0f05" stroke-width="1.8"/><path d="M762 451 L767 451 M800 451 L800 456" stroke="#1a0f05" stroke-width="1.2"/><path d="M805 440 l3 -2 l1 4 z" fill="#c8333a"/>
+  <rect x="755" y="425" width="14" height="7" rx="2" fill="#a82a30"/><rect x="793" y="425" width="14" height="7" rx="2" fill="#1a0f05"/>
   <!-- Licht -->
   <rect width="1000" height="640" fill="url(#lamp)" style="mix-blend-mode:screen"/><rect width="1000" height="640" fill="url(#vig)"/>
   <!-- Fundstellen -->
-  <rect class="hs" data-hs="regal" tabindex="0" x="30" y="80" width="190" height="460" rx="6"><title>Bücherregal</title></rect>
-  <rect class="hs" data-hs="fenster" tabindex="0" x="285" y="70" width="190" height="230" rx="6"><title>Fenster</title></rect>
-  <rect class="hs" data-hs="${f.painting?"tresor":"gemaelde"}" tabindex="0" x="545" y="80" width="185" height="205" rx="6"><title>${f.painting?"Tresor":"Gemälde"}</title></rect>
-  <rect class="hs" data-hs="tuer" tabindex="0" x="845" y="110" width="135" height="430" rx="6"><title>Tür</title></rect>
-  <rect class="hs" data-hs="papierkorb" tabindex="0" x="246" y="500" width="82" height="94" rx="6"><title>Papierkorb</title></rect>
-  <rect class="hs" data-hs="schublade" tabindex="0" x="450" y="485" width="140" height="62" rx="6"><title>Schreibtischschublade</title></rect>
-  <rect class="hs" data-hs="brett" tabindex="0" x="410" y="372" width="180" height="90" rx="6"><title>Schachbrett</title></rect>
+  <rect class="hs" data-hs="regal" tabindex="0" x="26" y="76" width="208" height="470" rx="6"><title>Bücherregal</title></rect>
+  <rect class="hs" data-hs="fenster" tabindex="0" x="280" y="66" width="200" height="240" rx="6"><title>Fenster</title></rect>
+  <rect class="hs" data-hs="${f.painting?"tresor":"gemaelde"}" tabindex="0" x="543" y="78" width="186" height="220" rx="6"><title>${f.painting?"Tresor":"Gemälde"}</title></rect>
+  <rect class="hs" data-hs="tuer" tabindex="0" x="840" y="104" width="148" height="440" rx="6"><title>Tür</title></rect>
+  <rect class="hs" data-hs="papierkorb" tabindex="0" x="244" y="502" width="86" height="94" rx="6"><title>Papierkorb</title></rect>
+  <rect class="hs" data-hs="schublade" tabindex="0" x="450" y="484" width="140" height="58" rx="6"><title>Schreibtischschublade</title></rect>
+  <rect class="hs" data-hs="brett" tabindex="0" x="408" y="372" width="184" height="92" rx="6"><title>Schachbrett</title></rect>
   <rect class="hs" data-hs="telegramm" tabindex="0" x="338" y="415" width="76" height="56" rx="6"><title>Telegramm</title></rect>
-  <rect class="hs" data-hs="uhr" tabindex="0" x="730" y="418" width="100" height="62" rx="6"><title>Schachuhr</title></rect>
-  <rect class="hs" data-hs="lampe" tabindex="0" x="610" y="360" width="86" height="98" rx="6"><title>Lampe</title></rect>`;
+  <rect class="hs" data-hs="uhr" tabindex="0" x="728" y="420" width="104" height="58" rx="6"><title>Schachuhr</title></rect>
+  <rect class="hs" data-hs="lampe" tabindex="0" x="596" y="380" width="114" height="80" rx="6"><title>Lampe</title></rect>`;
 }
 
 /* ---------- Brett ---------- */

diff --git a/site/sw.js b/site/sw.js
@@ -1,5 +1,5 @@
 /* Service Worker: Offline-Cache fuer bruns-homepage */
-const VERSION = 'eb-v76-2026-11-15';
+const VERSION = 'eb-v77-2026-11-15';
 const CORE = [
   '/',
   '/materialfinder/',
